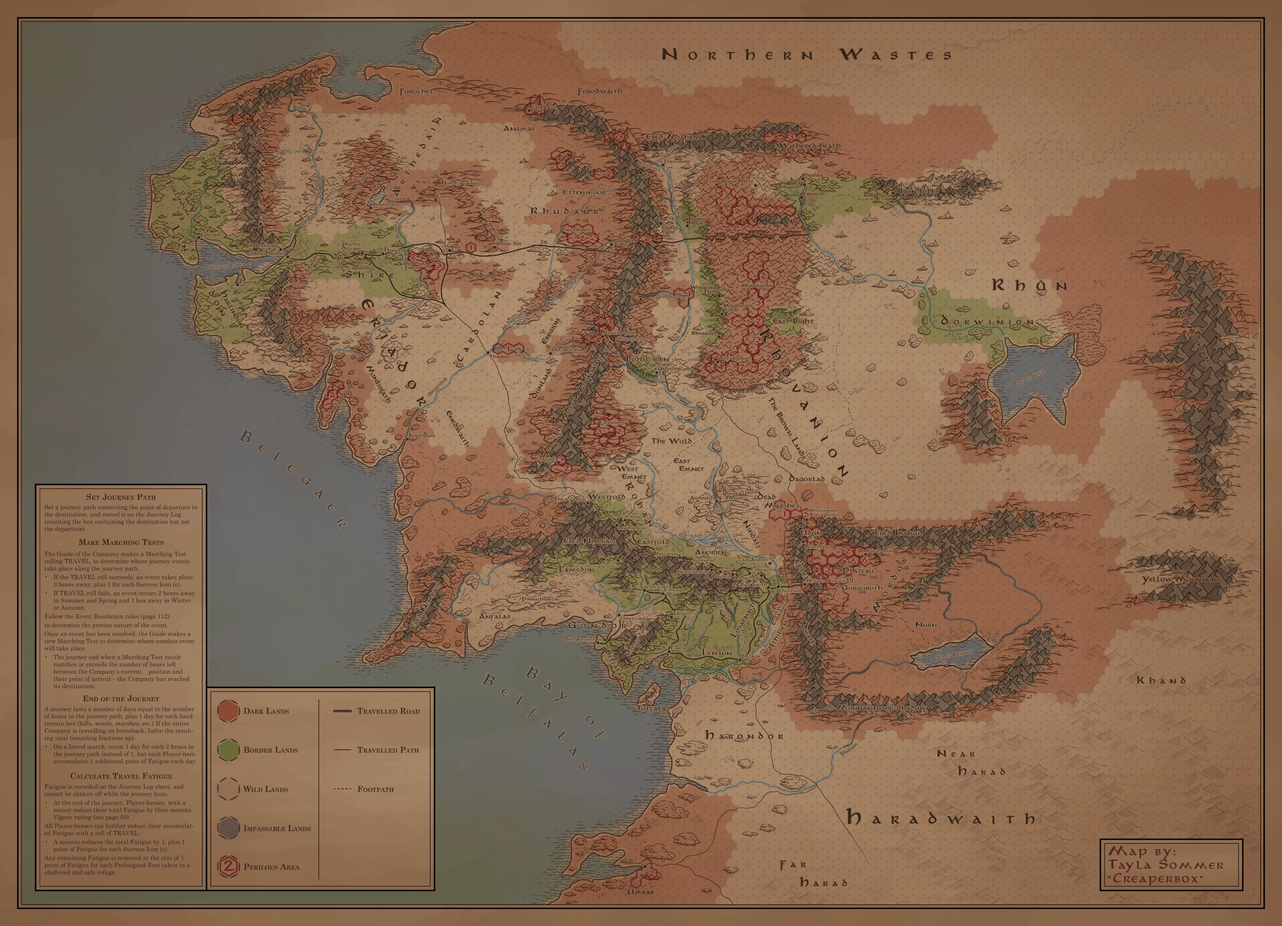
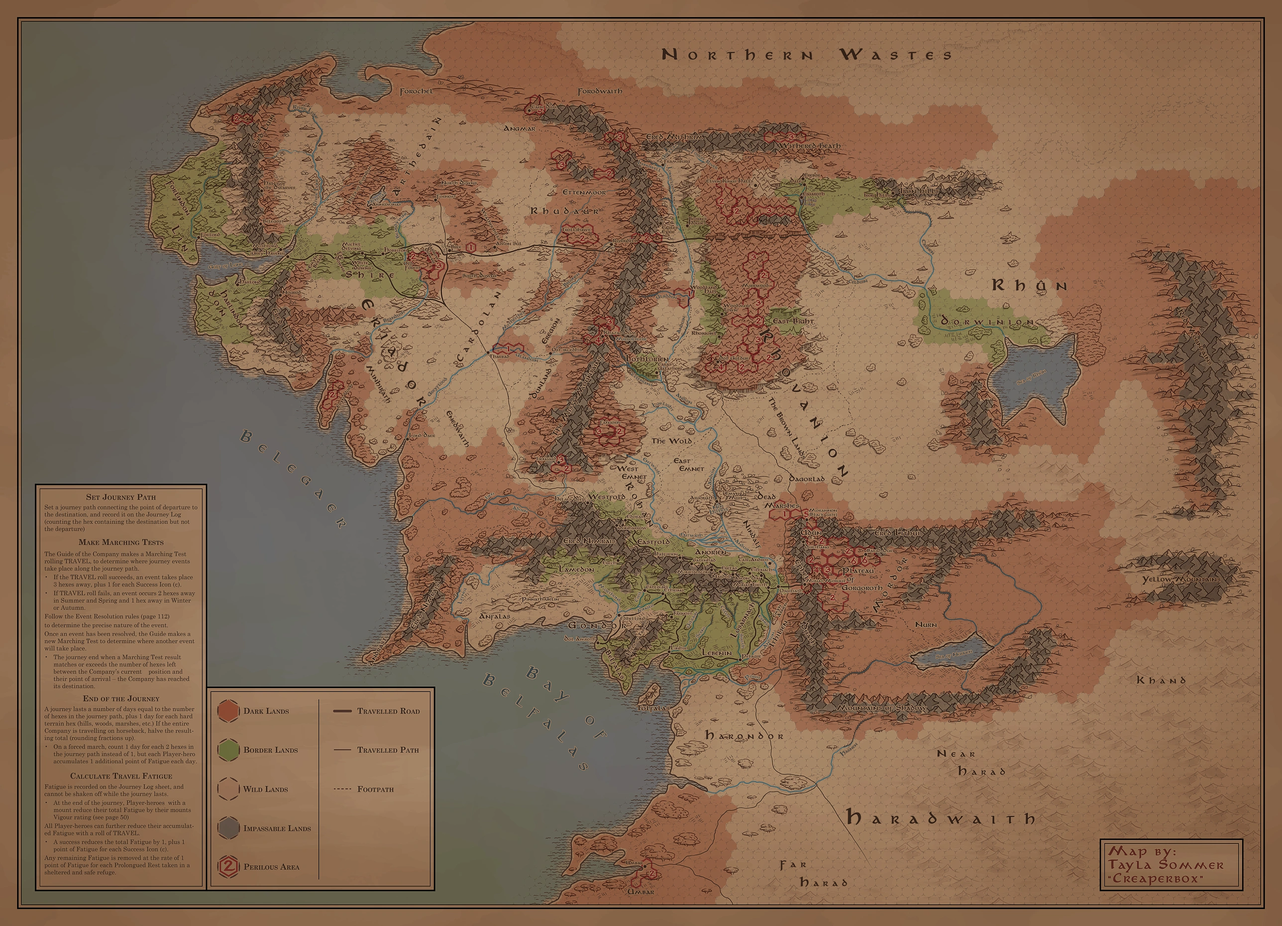
Map: sharpened picture (unsharp mask, radius 1, amount 0.8) and zoom stops at 1.6x the picture instead of 2.6x; SW v140
Claude-Session: https://claude.ai/code/session_01SHr8gnMM4tDsHsEEPK7rhC

diff --git a/tests/specs/design.js b/tests/specs/design.js
@@ -987,8 +987,8 @@ module.exports = {
       await page.evaluate(() => closeMapPicker());
     } catch (e) { td.err = String(e); }
     await page.setViewportSize(vp2); await page.waitForTimeout(150);
-    checks.push({ ok: !td.err && td.town[0] === 'Rivendell' && td.town[1] === 'Rivendell' && td.spot === 'a spot on the map' && td.maxScale <= 2.58 && td.names > 0 && td.dots >= 50 && !td.dotsInHex.length,
-      msg: `tapping near a town's printed dot chooses the town; an empty spot names nothing; zoom stops at ~2.5x the picture with names drawn sharp (${JSON.stringify(td)})` });
+    checks.push({ ok: !td.err && td.town[0] === 'Rivendell' && td.town[1] === 'Rivendell' && td.spot === 'a spot on the map' && td.maxScale <= 1.66 && td.names > 0 && td.dots >= 50 && !td.dotsInHex.length,
+      msg: `tapping near a town's printed dot chooses the town; an empty spot names nothing; zoom stops at ~1.6x the picture with names drawn sharp (${JSON.stringify(td)})` });
     await hero();
 
 

diff --git a/src/10-map.js b/src/10-map.js
@@ -229,8 +229,8 @@ function _pin(rc, kind, name) {
 function _mapSetVB(x, y, w) {
   const svg = document.getElementById('map-svg'); if (!svg) return;
   const box = svg.getBoundingClientRect(); const ar = (box.height || 1) / (box.width || 1);
-  // stop zooming at ~2.5 screen px per pixel of the picture — past that it is only blur
-  const maxK = 2.5 * (MAP_DATA.srcW || MAP_DATA.W) / MAP_DATA.W;
+  // stop zooming at ~1.6 screen px per pixel of the picture — past that it is only blur
+  const maxK = 1.6 * (MAP_DATA.srcW || MAP_DATA.W) / MAP_DATA.W;
   w = Math.max(160, (box.width || 0) / maxK, Math.min(MAP_DATA.W, w)); const h = w * ar;
   x = Math.max(-w * 0.25, Math.min(MAP_DATA.W - w * 0.75, x)); y = Math.max(-h * 0.25, Math.min(MAP_DATA.H - h * 0.75, y));
   MapPick.vb = { x, y, w, h };

diff --git a/sw.js b/sw.js
@@ -10,7 +10,7 @@
 //     This keeps clients from getting stuck on a stale build.
 // Bump CACHE_VERSION on any deploy so old caches are garbage-collected on activate.
 
-const CACHE_VERSION = 'tor2e-v139';
+const CACHE_VERSION = 'tor2e-v140';
 const PRECACHE = [
   './',
   './index.html',
